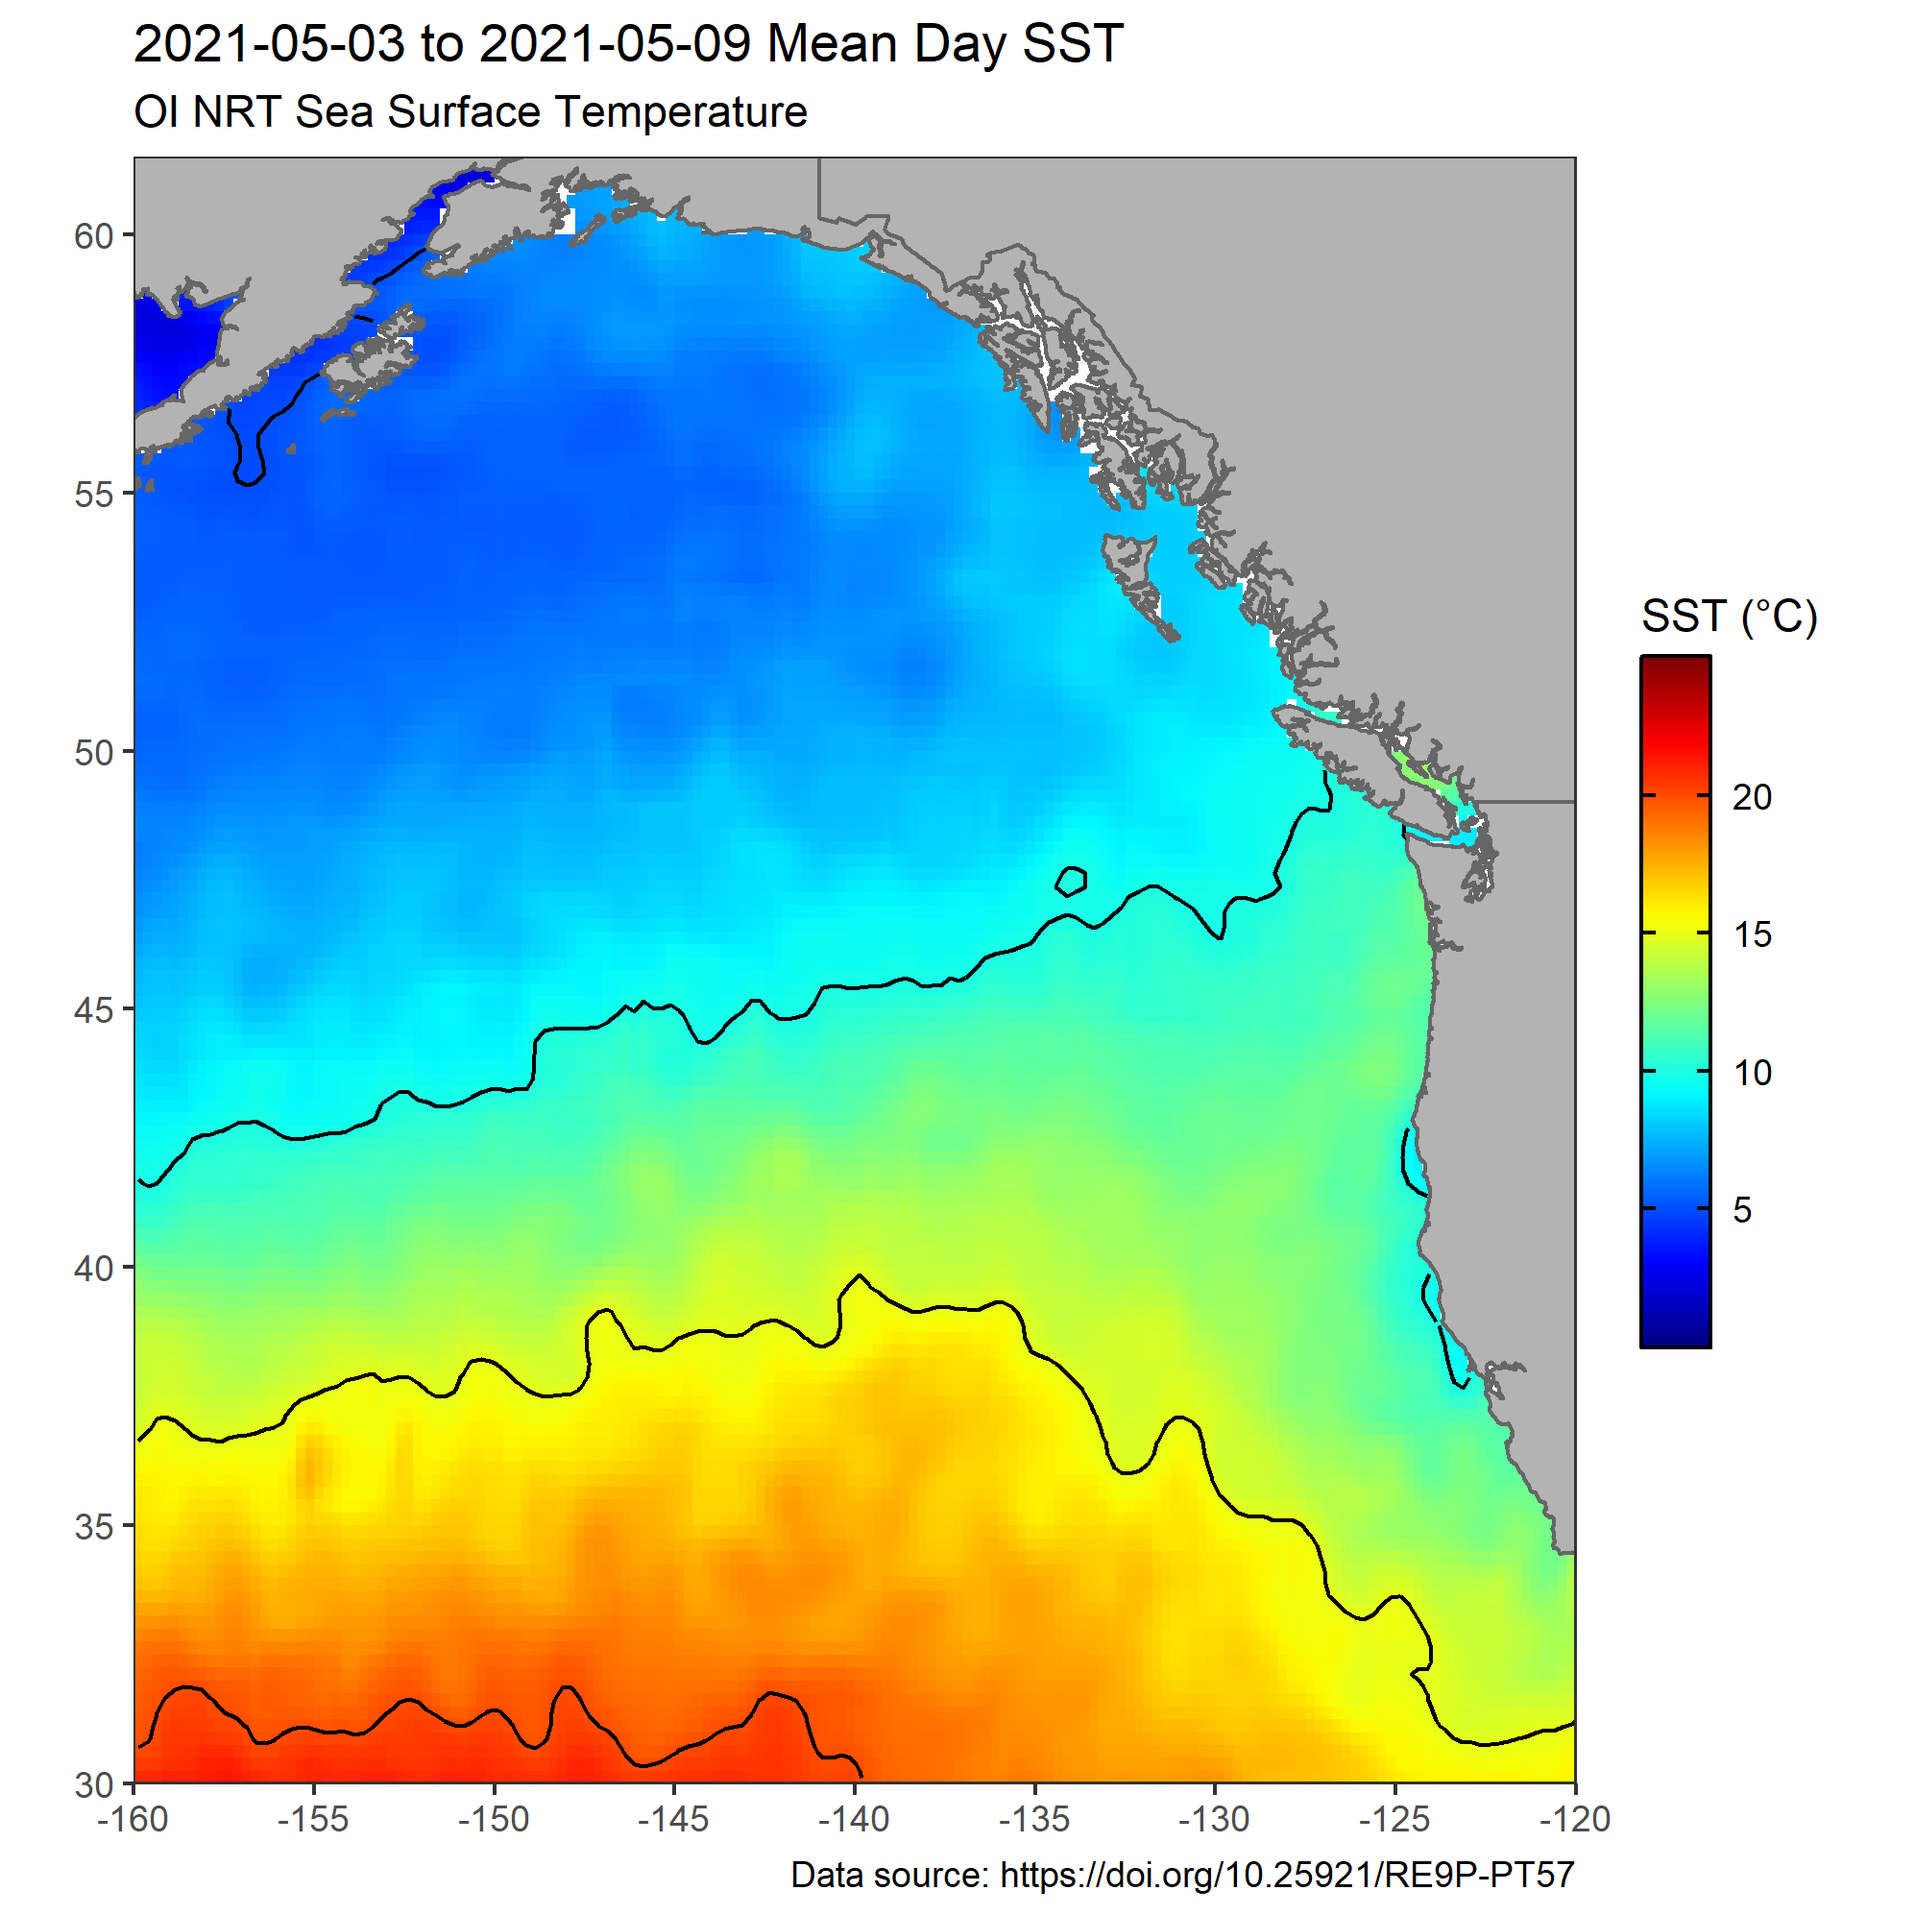
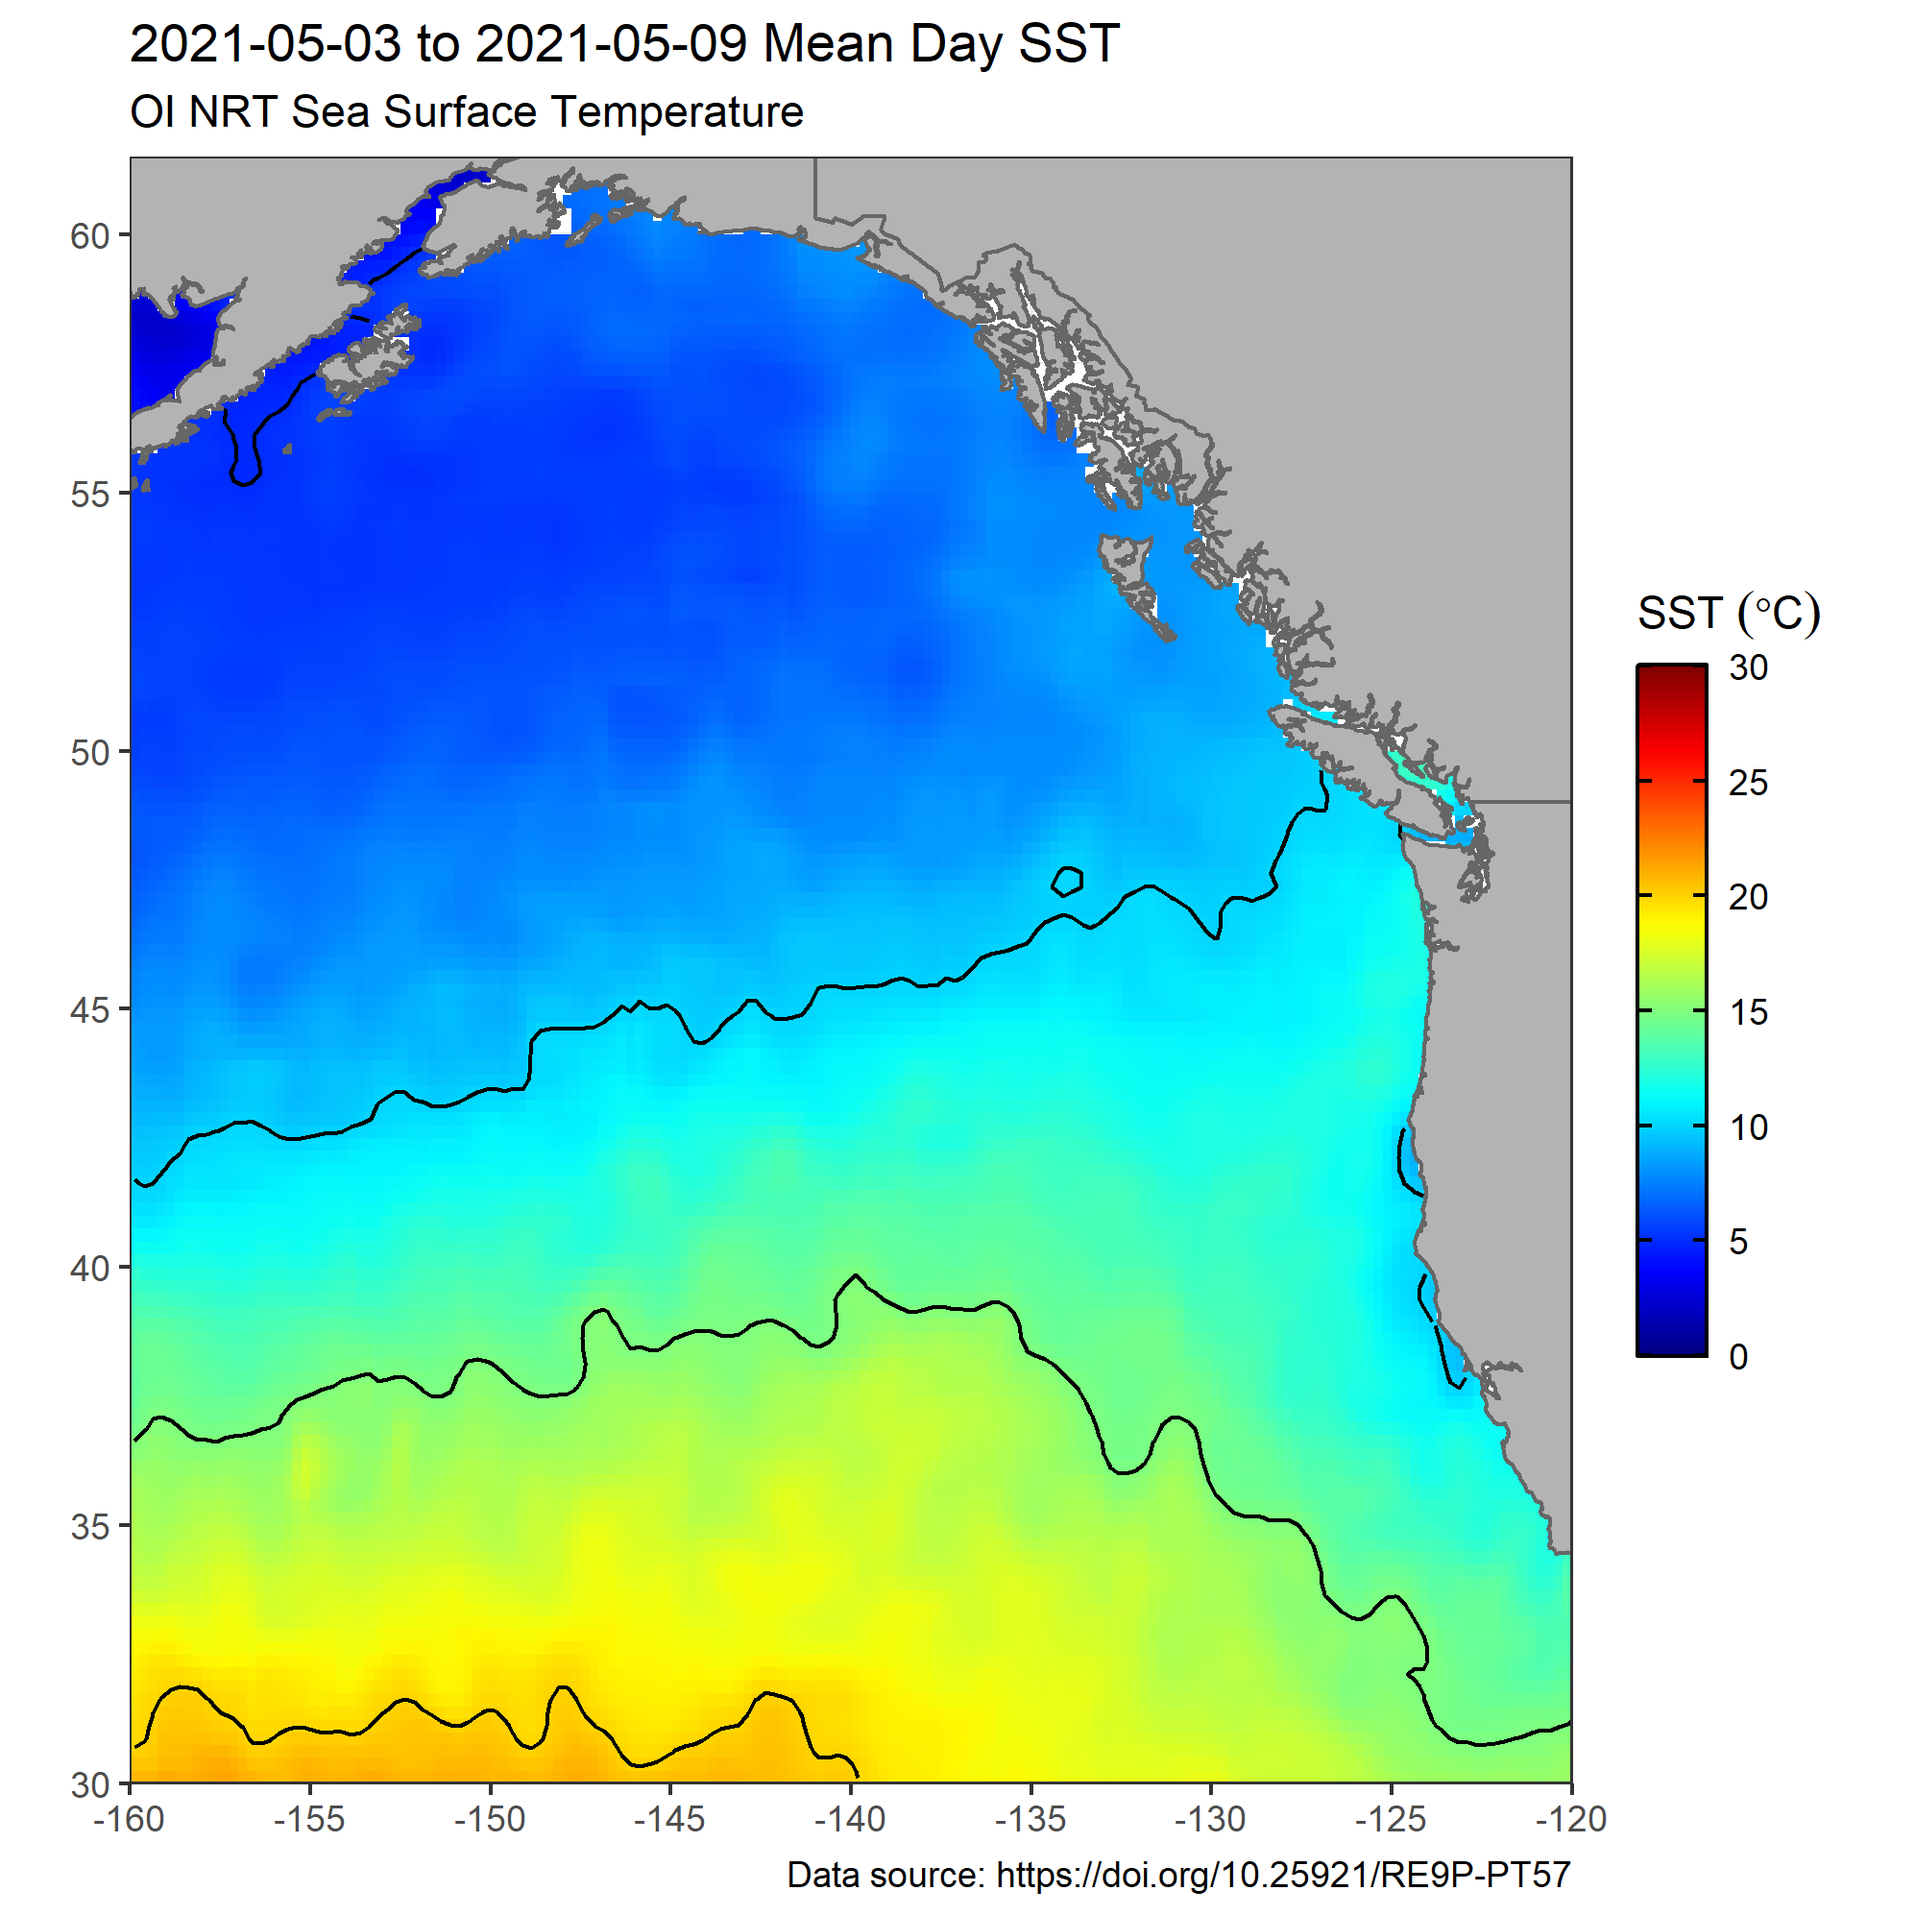
Adjust colour scale

diff --git a/README.md b/README.md
@@ -4,15 +4,15 @@
 ---
 
 These maps show the mean Sea Surface Temperature (SST, degrees Celsius) and SST anomaly for the Northeast Pacific from the latest 7 days of data.
-Two datasets are shown for comparison - MODIS-Aqua daytime SST provided by NASA, and NOAA Optimal Interpolation gap-filled SST (OISST). MODIS-Aqua anomalies were calculated from the corresponding week of data from the 18-year period of 2003-2020, and for OI the 30-year period of 1991-2020. The anomaly maps also delineate SST exceeding a threshold used for tracking marine heatwaves (above 1.29 standard deviations compared to normal, labelled as **1.29 SD**). Data is accessed via the NOAA CoastWatch ERDDAP server.
+Two datasets are shown for comparison - MODIS-Aqua daytime SST provided by NASA, and NOAA Optimal Interpolation gap-filled SST (OISST). MODIS-Aqua anomalies were calculated from the corresponding week of data from the 18-year period 2003-2020, and for OI the 30-year period 1991-2020. The anomaly maps delineate SST exceeding a threshold used for tracking marine heatwaves (>1.29 standard deviations compared to normal, labelled as **1.29 SD**). Data is accessed via the NOAA CoastWatch ERDDAP server.
 
 **These figures are provisional and correctness is not guaranteed. :)**
 
-This will be updated on Mondays and Thursdays. A limited number of prior images [can be found here](https://github.com/BIO-RSG/Pacific_SST_NRT_Monitoring/tree/main/figures).
+This will update on Mondays and Thursdays. A limited number of prior images [can be found here](https://github.com/BIO-RSG/Pacific_SST_NRT_Monitoring/tree/main/figures).
 
 ## MODIS-Aqua NRT SST:
 
-The first plot shows 7-day mean day-time MODIS-Aqua SST, with contours at 5-degree increments noted on the legend. The second plot is the 7-day anomaly, calculated by comparison to the climatology of mean SST from **2003-2020** during the same week. The third map shows the number of times a given pixel had data in the most recent week. 
+The first plot shows 7-day mean day-time MODIS-Aqua SST, with contours at 5-degree increments noted on the legend. The second plot is the 7-day anomaly, using the climatology of mean SST from **2003-2020** during the same week. The third map shows the number of times a given pixel had data in the most recent week. 
 The spatial resolution is 0.04166 degrees with low quality pixels masked out.
 
 <img src="SST_MODISA_7-day_rollingavg.png" width="445" /> <img src="SST_MODISA_7-day_rollingavg_anom.png" width="460" /> 
@@ -30,7 +30,7 @@ The first plot is 7-day mean daily OI interpolated SST, with contours at 5-degre
   
 ## Other data sources, maps and links of interest:
 
-* [California Current Heat Wave Tracker](https://www.integratedecosystemassessment.noaa.gov/regions/california-current/cc-projects-blobtracker)
+* [California Current Marine Heatwave Tracker](https://www.integratedecosystemassessment.noaa.gov/regions/california-current/cc-projects-blobtracker)
 * [Global daily SST, 7-day trend and anomaly (NOAA CoralReefWatch)](https://www.ospo.noaa.gov/Products/ocean/cb/sst5km/)
 * Old version (2.0) of OI dataset (no longer updated): <https://www.emc.ncep.noaa.gov/research/cmb/sst_analysis/>
 * [GOES 1-day, 4-day SST composites](https://ocean.weather.gov/Loops/ocean_guidance.php?model=GOES&area=WasC&plot=sst&day=0&loop=0)
@@ -39,7 +39,7 @@ The first plot is 7-day mean daily OI interpolated SST, with contours at 5-degre
 
 ## References:
 
-* California Current Blob Tracker: https://www.integratedecosystemassessment.noaa.gov/regions/california-current/cc-projects-blobtracker
+* California Current Marine Heatwave Tracker: https://www.integratedecosystemassessment.noaa.gov/regions/california-current/cc-projects-blobtracker
 * CoastWatch ERDDAP Server: https://coastwatch.pfeg.noaa.gov/erddap/index.html
 * Huang, Boyin; Liu, Chunying; Banzon, Viva F.; Freeman, Eric; Graham, Garrett; Hankins, Bill; Smith, Thomas M.; Zhang, Huai-Min. (2020): NOAA 0.25-degree Daily Optimum Interpolation Sea Surface Temperature (OISST), Version 2.1. NOAA National Centers for Environmental Information. https://doi.org/10.25921/RE9P-PT57.
 * NASA Goddard Space Flight Center, Ocean Ecology Laboratory, Ocean Biology Processing Group. Moderate-resolution Imaging Spectroradiometer (MODIS) Aqua NRT SST data; NASA OB.DAAC, Greenbelt, MD, USA.
